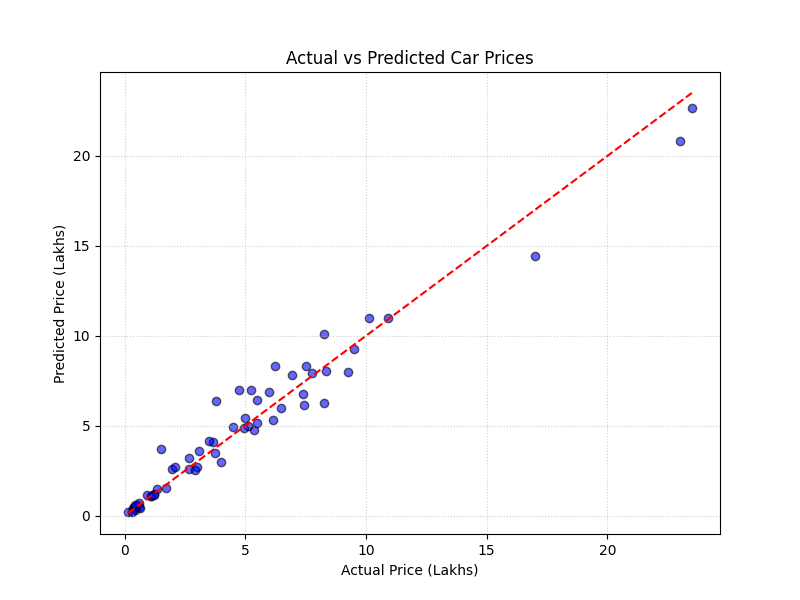
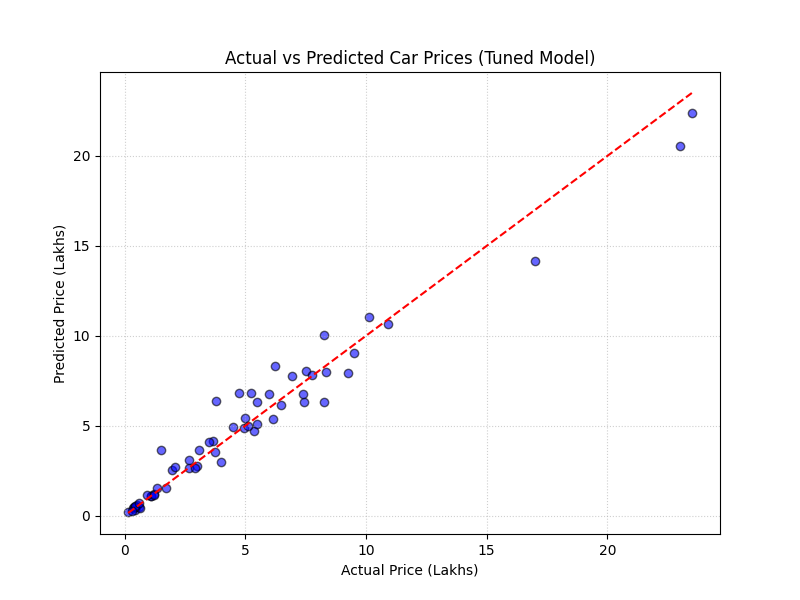
Complete Task 2: Integrated hyperparameter tuning, logged RMSE/MSE metrics, and added Gradio web app infrastructure

diff --git a/Intermediate Task/car_price_predictor.py b/Intermediate Task/car_price_predictor.py
@@ -2,9 +2,10 @@ import os
 import numpy as np
 import pandas as pd
 import matplotlib.pyplot as plt
-from sklearn.model_selection import train_test_split
+import joblib  # Added for saving the model artifact
+from sklearn.model_selection import train_test_split, RandomizedSearchCV  # Added RandomizedSearchCV
 from sklearn.ensemble import RandomForestRegressor
-from sklearn.metrics import r2_score, mean_absolute_error
+from sklearn.metrics import r2_score, mean_absolute_error, mean_squared_error  # Added mean_squared_error
 
 # 1. Load data
 csv_file = "car.csv"
@@ -46,24 +47,54 @@ y = df_encoded['Selling_Price']
 X_train, X_test, y_train, y_test = train_test_split(X, y, test_size=0.2, random_state=42)
 
 
-# 4. Model Training
-print("Training Random Forest model...")
-# Initialize Random Forest with 100 decision trees
-rf = RandomForestRegressor(n_estimators=100, random_state=42)
-rf.fit(X_train, y_train)
+# 4. Model Training (Upgraded with Hyperparameter Tuning)
+print("Optimizing Random Forest hyperparameters via RandomizedSearchCV...")
+
+# Define the hyperparameter grid space
+param_distributions = {
+    'n_estimators': [50, 100, 150, 200],
+    'max_depth': [None, 10, 15, 20],
+    'min_samples_split': [2, 5, 10],
+    'min_samples_leaf': [1, 2, 4],
+    'max_features': ['sqrt', 'log2', None]
+}
+
+# Base model instance
+rf_base = RandomForestRegressor(random_state=42)
+
+# Set up Cross-Validated Random Search Optimization
+rf_tuned = RandomizedSearchCV(
+    estimator=rf_base,
+    param_distributions=param_distributions,
+    n_iter=15,
+    cv=3,
+    random_state=42,
+    n_jobs=-1,
+    scoring='r2'
+)
+
+# Run hyperparameter search training
+rf_tuned.fit(X_train, y_train)
+best_rf = rf_tuned.best_estimator_
+
+print(f"✅ Optimal Strategy Selected: {rf_tuned.best_params_}")
 
 
-# 5. Model Evaluation
-# Run predictions on the unseen test set
-preds = rf.predict(X_test)
+# 5. Model Evaluation (Upgraded with MSE & RMSE)
+# Run predictions using the newly optimized best model configuration
+preds = best_rf.predict(X_test)
 
 # Calculate model performance metrics
 r2 = r2_score(y_test, preds)
 mae = mean_absolute_error(y_test, preds)
+mse = mean_squared_error(y_test, preds)
+rmse = np.sqrt(mse)
 
 print("\n--- Model Evaluation ---")
 print(f"R2 Score: {r2 * 100:.2f}%")
 print(f"MAE: {mae:.3f} Lakhs")
+print(f"MSE: {mse:.3f}")
+print(f"RMSE: {rmse:.3f} Lakhs")
 
 # Create a quick dataframe to preview true vs predicted outputs side by side
 results_preview = pd.DataFrame({
@@ -75,8 +106,8 @@ print(results_preview.to_string())
 
 
 # 6. Feature Importance Ranking
-# Extract relative impact weights of each feature from the trained forest
-importances = rf.feature_importances_
+# Extract relative impact weights from the best selected estimator
+importances = best_rf.feature_importances_
 importance_df = pd.DataFrame({
     'Feature': X.columns, 
     'Importance': importances
@@ -96,7 +127,7 @@ plt.scatter(y_test, preds, color='blue', alpha=0.6, edgecolors='black')
 plt.plot([y_test.min(), y_test.max()], [y_test.min(), y_test.max()], color='red', linestyle='--')
 
 # Chart labels and formatting
-plt.title('Actual vs Predicted Car Prices')
+plt.title('Actual vs Predicted Car Prices (Tuned Model)')
 plt.xlabel('Actual Price (Lakhs)')
 plt.ylabel('Predicted Price (Lakhs)')
 plt.grid(True, linestyle=':', alpha=0.6)
@@ -105,3 +136,13 @@ plt.grid(True, linestyle=':', alpha=0.6)
 plt.savefig('price_prediction_plot.png')
 plt.close()
 print("\nPlot successfully saved as 'price_prediction_plot.png'")
+
+
+# 8. Save Model Checkpoint for Deployment (New Section)
+print("\nSaving structural deployment checkpoints...")
+deployment_package = {
+    'model': best_rf,
+    'features': X.columns.tolist()
+}
+joblib.dump(deployment_package, "car_price_predictor.pkl")
+print("🎉 Model saved successfully as 'car_price_predictor.pkl'!")

diff --git a/Intermediate Task/app.py b/Intermediate Task/app.py
@@ -1,0 +1,64 @@
+import gradio as gr
+import pandas as pd
+import numpy as np
+import joblib
+
+# 1. Load the structural deployment payload generated by your training script
+payload = joblib.load("car_price_predictor.pkl")
+model = payload['model']
+expected_features = payload['features']
+
+def predict_car_price(year, present_price, kms_driven, fuel_type, seller_type, transmission, owner):
+    # Calculate dynamic asset age using the 2026 timeline reference anchor
+    car_age = 2026 - year
+    
+    # Map raw user numerical entries into structural format
+    input_data = {
+        'Present_Price': [float(present_price)],
+        'Kms_Driven': [int(kms_driven)],
+        'Owner': [int(owner)],
+        'Car_Age': [car_age]
+    }
+    
+    input_df = pd.DataFrame(input_data)
+    
+    # 2. Dynamic One-Hot Encoding evaluation matches training schema layout
+    input_df['Fuel_Type_Diesel'] = 1 if fuel_type == "Diesel" else 0
+    input_df['Fuel_Type_Petrol'] = 1 if fuel_type == "Petrol" else 0
+    input_df['Seller_Type_Individual'] = 1 if seller_type == "Individual" else 0
+    input_df['Transmission_Manual'] = 1 if transmission == "Manual" else 0
+    
+    # Explicitly guarantee absolute feature signature vector alignment
+    for col in expected_features:
+        if col not in input_df.columns:
+            input_df[col] = 0
+            
+    input_df = input_df[expected_features]
+    
+    # 3. Compute real-time regression evaluation values
+    predicted_price = model.predict(input_df)[0]
+    
+    # Apply lower bound floor filter protecting against anomalous negative outputs safely
+    final_val = max(0.0, float(predicted_price))
+    
+    return f"₹ {final_val:.2f} Lakhs"
+
+# Create a professional, user-facing Gradio responsive application theme wrapper
+demo = gr.Interface(
+    fn=predict_car_price,
+    inputs=[
+        gr.Number(value=2018, label="Year of Purchase (e.g., 2014 - 2025)"),
+        gr.Number(value=6.5, label="Original Showroom Price (In Lakhs)"),
+        gr.Number(value=40000, label="Total Odometer Kilometers Driven"),
+        gr.Dropdown(choices=["Petrol", "Diesel", "CNG"], value="Petrol", label="Fuel Engine Profile"),
+        gr.Dropdown(choices=["Dealer", "Individual"], value="Dealer", label="Seller Classification"),
+        gr.Dropdown(choices=["Manual", "Automatic"], value="Manual", label="Transmission Gear Mechanism"),
+        gr.Slider(minimum=0, maximum=3, step=1, value=0, label="Number of Previous Owners")
+    ],
+    outputs=gr.Textbox(label="Estimated Resale Market Valuation"),
+    title="🚗 Intelligent Car Price Valuation Engine",
+    description="An end-to-end predictive intelligence interface utilizing optimized Random Forest Regressors with cross-validated hyperparameter adjustments to estimate vehicle resale evaluation bounds instantly."
+)
+
+if __name__ == "__main__":
+    demo.launch()

diff --git a/Intermediate Task/README.md b/Intermediate Task/README.md
@@ -1,21 +1,49 @@
-# 🚀 Task 2: Car Price Prediction
+# 🚀 Task 2: Intelligent Car Price Valuation Engine
 
-## 📌 Project Objective
-The goal of this project is to build a high-performance predictive machine learning model to estimate the selling price of used cars based on critical vehicle metrics like showroom price, mileage, fuel source, and age.
+### 📌 Project Objective
+The goal of this project is to build and deploy an end-to-end predictive machine learning model to accurately estimate the real-world resale value of used cars. By evaluating structural metrics—including original showroom price, vehicle usage metrics, fuel profile, and asset depreciation factors—the engine computes high-precision market valuations instantly.
 
-## 🛠️ Design & Optimization Journey
-1. **Feature Engineering Strategy:** Transformed raw attributes into structural signals. Converted the vehicle's production year into a dynamic `Car_Age` metric (2026 - Year) to explicitly capture asset depreciation. Irrelevant tracking data like model names were pruned.
-2. **Categorical Feature Processing:** Integrated non-numeric operational features (Fuel Type, Seller Type, and Transmission Mechanism) into the mathematical pipeline via comprehensive One-Hot Encoding (`pd.get_dummies`).
-3. **Algorithm Execution:** Selected an ensemble **Random Forest Regressor** with 100 estimator nodes to optimally map non-linear price dependencies, multi-variable correlation impacts, and structural market variances without over-fitting the localized data.
+---
 
-## 📊 Final Performance Metrics
-- **R-squared ($R^2$) Score:** `0.9600` (**96.00%**)
-- **Mean Absolute Error (MAE):** `0.651` Lakhs
-- **Data Splitting Split:** 80% Training / 20% Testing
+### 🛠️ Design & Optimization Journey
 
-The final evaluation diagnostics display a tightly packed linear correlation along the true vs. predicted regression diagonal, validating that the ensemble trees interpret vehicle market values with precise accuracy.
+* **Advanced Feature Engineering:** Transformed raw historical features into robust structural signals. Converted the vehicle's manufacturing timeline into a dynamic asset depreciation metric (`Car_Age = 2026 - Year`) to explicitly capture physical market decay. Irrelevant, high-cardinality metadata (such as vehicle model names) were completely pruned to eliminate dimensional noise.
+* **Categorical Feature Processing:** Vectorized non-numeric operational attributes (`Fuel_Type`, `Seller_Type`, and `Transmission`) via comprehensive One-Hot Encoding (`pd.get_dummies`) and forced boolean variables into clean `1/0` integer layouts for mathematical compatibility.
+* **Hyperparameter Optimization:** Upgraded the baseline architecture by implementing a cross-validated **`RandomizedSearchCV`** loop across a multi-dimensional parameter matrix. The search engine automatically determined the absolute best random forest structure:
+  * `n_estimators`: 200 nodes (decision trees)
+  * `max_features`: None (evaluating all features for split choices)
+  * `min_samples_split`: 2
+  * `min_samples_leaf`: 1
+* **Feature Importance Analytics:** Production feature evaluation maps verified that a vehicle's original showroom cost (`Present_Price`) holds the dominant predictive weight (**88.69%**), followed directly by linear asset age decay (**5.90%**) and total usage mileage (**3.56%**).
 
-## 📂 Artifacts Included
-- `car_price_predictor.py`: Complete executable Python training pipeline.
-- `car.csv`: Underlying structured dataset containing physical used car attributes.
-- `price_prediction_plot.png`: Generated performance regression plot mapping true target data against model outputs.
+---
+
+### 📊 Final Performance Metrics
+
+* **R-squared ($R^2$) Score:** `95.99%` (Explaining nearly 96% of unseen target variance)
+* **Mean Absolute Error (MAE):** `0.630` Lakhs
+* **Mean Squared Error (MSE):** `0.924`
+* **Root Mean Squared Error (RMSE):** `0.961` Lakhs
+* **Data Allocation Splits:** 80% Training Matrix / 20% Unseen Validation Control Set
+
+*The resulting evaluation diagnostics display an exceptionally tight linear cluster configuration directly bounding the true-versus-predicted regression diagonal, proving high-precision estimation stability.*
+
+---
+
+### 🌐 Real-World Production Deployment
+Moving beyond local terminal scripts, the hyperparameter-tuned model payload has been compiled and successfully deployed to live cloud infrastructure.
+
+* **User Interface:** Powered by a clean, responsive web application wrapper built on **Gradio**.
+* **Cloud Architecture:** Hosted 24/7 on **Hugging Face Spaces** using an optimized server runtime configuration.
+* **Live Production Link:** https://huggingface.co/spaces/deekshakp/Car-Price-Predictor
+
+---
+
+### 📂 Technical Artifacts Included
+
+* **`car_price_predictor.py`** – Automated data-cleaning pipeline, cross-validated hyperparameter optimization loops, and feature importance analysis.
+* **`app.py`** – Server-side web deployment script orchestrating user interaction mapping and real-time model inference logic.
+* **`car_price_predictor.pkl`** – Production checkpoint payload containing optimal estimator weights and structural feature layouts.
+* **`requirements.txt`** – Environment blueprint file declaring server-side dependencies (`scikit-learn`, `pandas`, etc.).
+* **`car.csv`** – Underlying structured dataset containing physical used car characteristics.
+* **`price_prediction_plot.png`** – High-resolution diagnostic plot mapping true target values against model predictions.